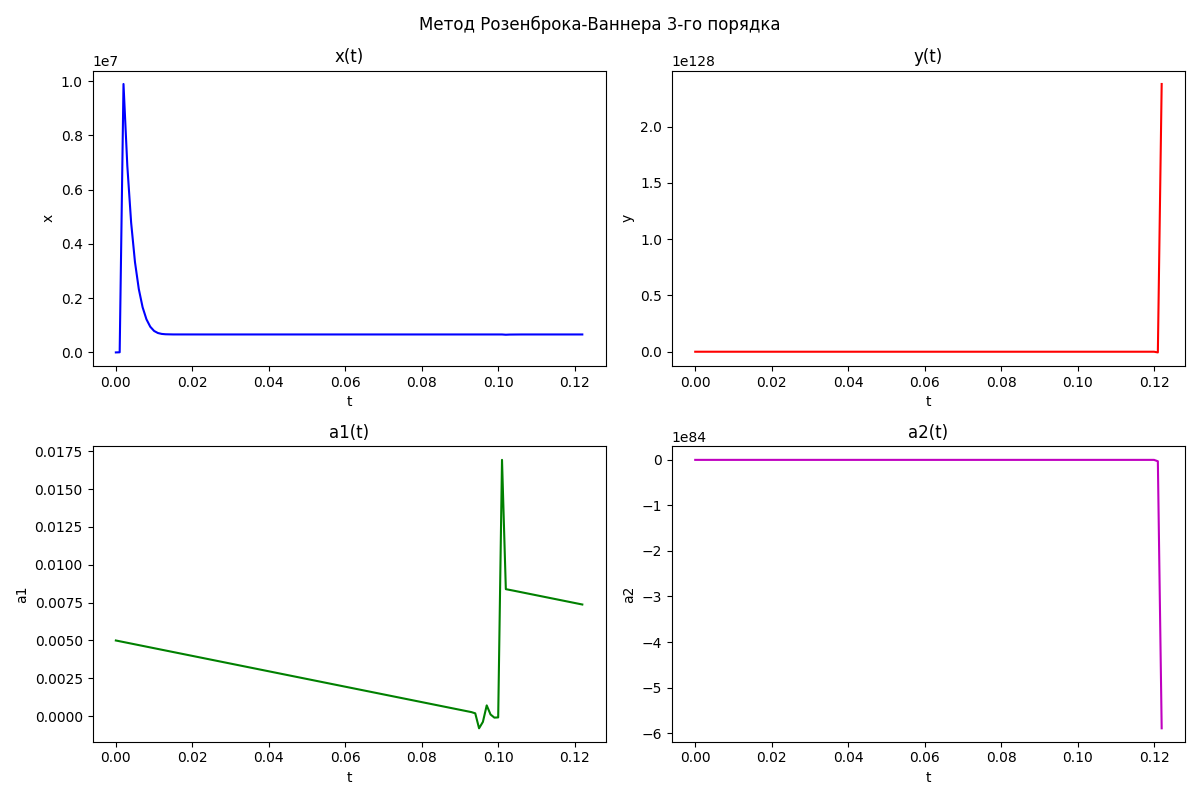
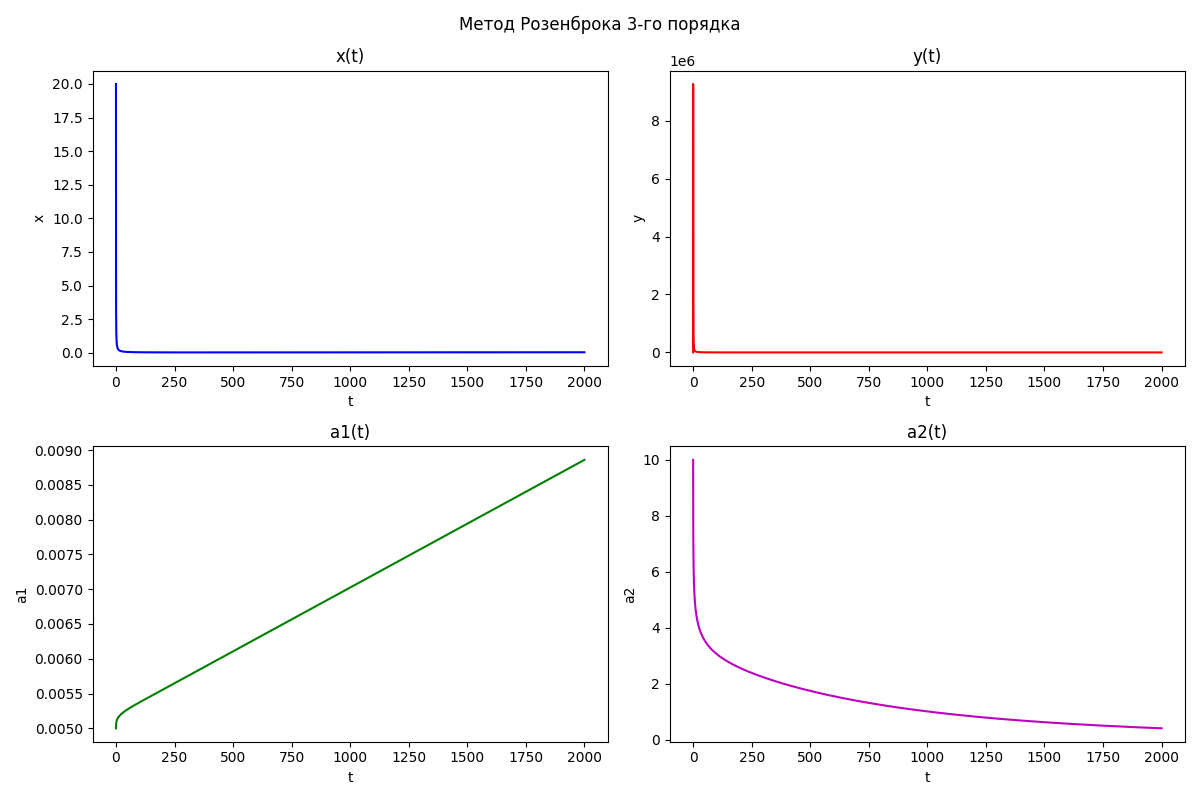
2 lab

diff --git a/spring_term/lab_2/implicit_runge.py b/spring_term/lab_2/implicit_runge.py
@@ -45,11 +45,10 @@ a21, a22 = 3/4, 1/4
 b1, b2 = 3/4, 1/4
 c1, c2 = 1/3, 1.0
 
-# Функция одного шага неявного метода Радau IIA
-def implicit_step(y_n, h, eps, tol=1e-8, max_iter=20):
-    # y_n — текущий вектор состояния (размер 4)
-    # стадии Y1, Y2 (каждая размером 4)
-    z = np.concatenate([y_n, y_n])  # начальное приближение: Y1 = Y2 = y_n
+# Функция одного шага неявного метода Radau IIA
+def imp_rung3(y_n, h, eps, tol=1e-8, max_iter=20):
+
+    z = np.concatenate([y_n, y_n]) 
     for iteration in range(max_iter):
         Y1 = z[0:4]
         Y2 = z[4:8]
@@ -84,55 +83,136 @@ def implicit_step(y_n, h, eps, tol=1e-8, max_iter=20):
     y_np1 = y_n + h*(b1*system(Y1, eps) + b2*system(Y2, eps))
     return y_np1
 
+def imp_rung4(y_n, h, eps, tol=1e-8, max_iter=20):
+    c1 = 0.5 - np.sqrt(3) / 6
+    c2 = 0.5 + np.sqrt(3) / 6
+    a11 = 0.25
+    a12 = 0.25 - np.sqrt(3) / 6
+    a21 = 0.25 + np.sqrt(3) / 6
+    a22 = 0.25
+    b1 = 0.5
+    b2 = 0.5
 
-def solver(nach_usl, T, h, eps):
-    N = int(T/h)
-    t = np.linspace(0, T, N+1)
-    sol = np.zeros((N+1, len(nach_usl)))
+    k1 = system(y_n, eps)
+    k2 = system(y_n, eps)
+
+    for _ in range(max_iter):
+        Y1 = y_n + h * (a11 * k1 + a12 * k2)
+        Y2 = y_n + h * (a21 * k1 + a22 * k2)
+
+        F1 = k1 - system(Y1, eps)
+        F2 = k2 - system(Y2, eps)
+        F = np.concatenate([F1, F2])
+
+        if np.linalg.norm(F) < tol:
+            break
+
+        J11 = np.eye(4) - h * a11 * jacobian_system(Y1, eps)
+        J12 = -h * a12 * jacobian_system(Y1, eps)
+        J21 = -h * a21 * jacobian_system(Y2, eps)
+        J22 = np.eye(4) - h * a22 * jacobian_system(Y2, eps)
+        J = np.block([[J11, J12], [J21, J22]])
+
+        delta = np.linalg.solve(J, -F)
+        k1 += delta[:4]
+        k2 += delta[4:]
+    else:
+        print("Warning: Newton method did not converge within the maximum iterations")
+
+    y_next = y_n + h * (b1 * k1 + b2 * k2)
+    return y_next
+
+def solver(nach_usl, T, h, eps, method='radau'):
+    N = int(T / h)
+    t = np.linspace(0, T, N + 1)
+    sol = np.zeros((N + 1, len(nach_usl)))
     sol[0] = nach_usl
     y_current = nach_usl.copy()
+
     for i in range(N):
-        y_next = implicit_step(y_current, h, eps)
-        sol[i+1] = y_next
+        if method == 'imp_rung_3':
+            y_next = imp_rung3(y_current, h, eps)
+        elif method == 'imp_rung_4':
+            y_next = imp_rung4(y_current, h, eps)
+        else:
+            raise ValueError("Unknown method")
+        
+        sol[i + 1] = y_next
         y_current = y_next
         if i % 100 == 0:
             print(f"Step {i}/{N}")
+
     return t, sol
 
 
 eps = 0.000001
 nach_usl = np.array([20.0, 20.0, 0.005, 10.0])
-T = 2000 
-h = 0.001  
-t, sol = solver(nach_usl, T, h, eps)
+T = 2000
+h = 0.01
 
+
+t_irk3, sol_irk3 = solver(nach_usl, T, h, eps, method='imp_rung_3')
+t_irk4, sol_irk4 = solver(nach_usl, T, h, eps, method='imp_rung_4')
 
 
 plt.figure(figsize=(12, 8))
+plt.suptitle("imp_rung_3")
 
 plt.subplot(2, 2, 1)
-plt.plot(t, sol[:, 0], 'b-')
+plt.plot(t_irk3, sol_irk3[:, 0], 'b-')
 plt.xlabel("t")
 plt.ylabel("x")
 plt.title("x(t)")
 
 plt.subplot(2, 2, 2)
-plt.plot(t, sol[:, 1], 'r-')
+plt.plot(t_irk3, sol_irk3[:, 1], 'r-')
 plt.xlabel("t")
 plt.ylabel("y")
 plt.title("y(t)")
 
 plt.subplot(2, 2, 3)
-plt.plot(t, sol[:, 2], 'g-')
+plt.plot(t_irk3, sol_irk3[:, 2], 'g-')
 plt.xlabel("t")
 plt.ylabel("a1")
 plt.title("a1(t)")
 
 plt.subplot(2, 2, 4)
-plt.plot(t, sol[:, 3], 'm-')
+plt.plot(t_irk3, sol_irk3[:, 3], 'm-')
 plt.xlabel("t")
 plt.ylabel("a2")
 plt.title("a2(t)")
 
 plt.tight_layout()
-plt.savefig("implicit_runge.png")
+plt.savefig("imp_rung_3.png")
+
+###
+
+plt.figure(figsize=(12, 8))
+plt.suptitle("imp_rung_4")
+
+plt.subplot(2, 2, 1)
+plt.plot(t_irk4, sol_irk4[:, 0], 'b-')
+plt.xlabel("t")
+plt.ylabel("x")
+plt.title("x(t)")
+
+plt.subplot(2, 2, 2)
+plt.plot(t_irk4, sol_irk4[:, 1], 'r-')
+plt.xlabel("t")
+plt.ylabel("y")
+plt.title("y(t)")
+
+plt.subplot(2, 2, 3)
+plt.plot(t_irk4, sol_irk4[:, 2], 'g-')
+plt.xlabel("t")
+plt.ylabel("a1")
+plt.title("a1(t)")
+
+plt.subplot(2, 2, 4)
+plt.plot(t_irk4, sol_irk4[:, 3], 'm-')
+plt.xlabel("t")
+plt.ylabel("a2")
+plt.title("a2(t)")
+
+plt.tight_layout()
+plt.savefig("imp_rung_4.png")

diff --git a/spring_term/lab_2/rosenbrok.py b/spring_term/lab_2/rosenbrok.py
@@ -13,33 +13,28 @@ def jacobian_system(vars, eps):
     x, y_val, a1, a2 = vars
     J = np.zeros((4, 4))
     
-    # Производные для dxdt
     J[0,0] = 2*a1 - x - (a1**2)/(a2**2)*y_val
     J[0,1] = -x*(a1**2)/(a2**2)
     J[0,2] = x*(2 - 2*a1*y_val/(a2**2))
     J[0,3] = 2*x*a1**2*y_val/(a2**3)
     
-    # Производные для dydt
     J[1,0] = -y_val*(a2**2)/(a1**2)
     J[1,1] = 2*a2 - y_val - (a2**2)/(a1**2)*x
     J[1,2] = 2*y_val*a2**2*x/(a1**3)
     J[1,3] = y_val*(2 - 2*a2*x/(a1**2))
     
-    # Производные для da1dt
     J[2,1] = -eps*2*a1/(a2**2)
     J[2,2] = -eps*2*y_val/(a2**2)
     J[2,3] = eps*4*a1*y_val/(a2**3)
     
-    # Производные для da2dt
     J[3,0] = -eps*2*a2/(a1**2)
     J[3,2] = eps*4*a2*x/(a1**3)
     J[3,3] = -eps*2*x/(a1**2)
     
     return J
 
-# Реализация метода Розенброка-Ваннера 2-го порядка
 def rosenbrock2_step(y_n, h, eps):
-    gamma = 1.7071067811865476  # 1 + 1/√2
+    gamma = 1.7071067811865476  
     alpha21 = 1.0
     gamma21 = -gamma
     m1 = 0.8786796564403576
@@ -49,7 +44,6 @@ def rosenbrock2_step(y_n, h, eps):
     I = np.eye(4)
     A = I - h * gamma * J
     
-    # Вычисление стадий
     f_n = system(y_n, eps)
     k1 = np.linalg.solve(A, h * f_n)
     
@@ -61,7 +55,6 @@ def rosenbrock2_step(y_n, h, eps):
     y_next = y_n + m1 * k1 + m2 * k2
     return y_next
 
-# Реализация метода Розенброка-Ваннера 3-го порядка (ROS3P)
 def rosenbrock3_step(y_n, h, eps):
     gamma = 0.435866521508
     a21 = 1.0
@@ -76,25 +69,22 @@ def rosenbrock3_step(y_n, h, eps):
     
     J = jacobian_system(y_n, eps)
     I = np.eye(4)
-    A = I / gamma - h * J
+    A = I - gamma * h * J 
     
-    # Стадия 1
     f_n = system(y_n, eps)
-    k1 = np.linalg.solve(A, f_n)
+    k1 = np.linalg.solve(A, h * f_n) 
     
-    # Стадия 2
-    y_temp = y_n + a21 * h * k1
+    y_temp = y_n + a21 * k1 
     f_temp = system(y_temp, eps)
-    rhs = f_temp + c21 * k1 / h
+    rhs = h * f_temp + c21 * k1 
     k2 = np.linalg.solve(A, rhs)
     
-    # Стадия 3
-    y_temp = y_n + a31 * h * k1 + a32 * h * k2
+    y_temp = y_n + a31 * k1 + a32 * k2 
     f_temp = system(y_temp, eps)
-    rhs = f_temp + c31 * k1 / h + c32 * k2 / h
+    rhs = h * f_temp + c31 * k1 + c32 * k2 
     k3 = np.linalg.solve(A, rhs)
     
-    y_next = y_n + h * (m1 * k1 + m2 * k2 + m3 * k3)
+    y_next = y_n + m1 * k1 + m2 * k2 + m3 * k3  
     return y_next
 
 def solver(nach_usl, T, h, eps, method='row2'):
@@ -115,21 +105,17 @@ def solver(nach_usl, T, h, eps, method='row2'):
     
     return t, sol
 
-# Параметры
 eps = 0.000001
 nach_usl = np.array([20.0, 20.0, 0.005, 10.0])
 T = 2000 
 h = 0.001  
 
-# Решение методом ROW2
 t_row2, sol_row2 = solver(nach_usl, T, h, eps, method='row2')
 
-# Решение методом ROW3
 t_row3, sol_row3 = solver(nach_usl, T, h, eps, method='row3')
 
-# Построение графиков для ROW2
 plt.figure(figsize=(12, 8))
-plt.suptitle("Метод Розенброка-Ваннера 2-го порядка")
+plt.suptitle("Метод Розенброка 2-го порядка")
 
 plt.subplot(2, 2, 1)
 plt.plot(t_row2, sol_row2[:, 0], 'b-')
@@ -158,9 +144,8 @@ plt.title("a2(t)")
 plt.tight_layout()
 plt.savefig("rosenbrock2.png")
 
-# Построение графиков для ROW3
 plt.figure(figsize=(12, 8))
-plt.suptitle("Метод Розенброка-Ваннера 3-го порядка")
+plt.suptitle("Метод Розенброка 3-го порядка")
 
 plt.subplot(2, 2, 1)
 plt.plot(t_row3, sol_row3[:, 0], 'b-')
